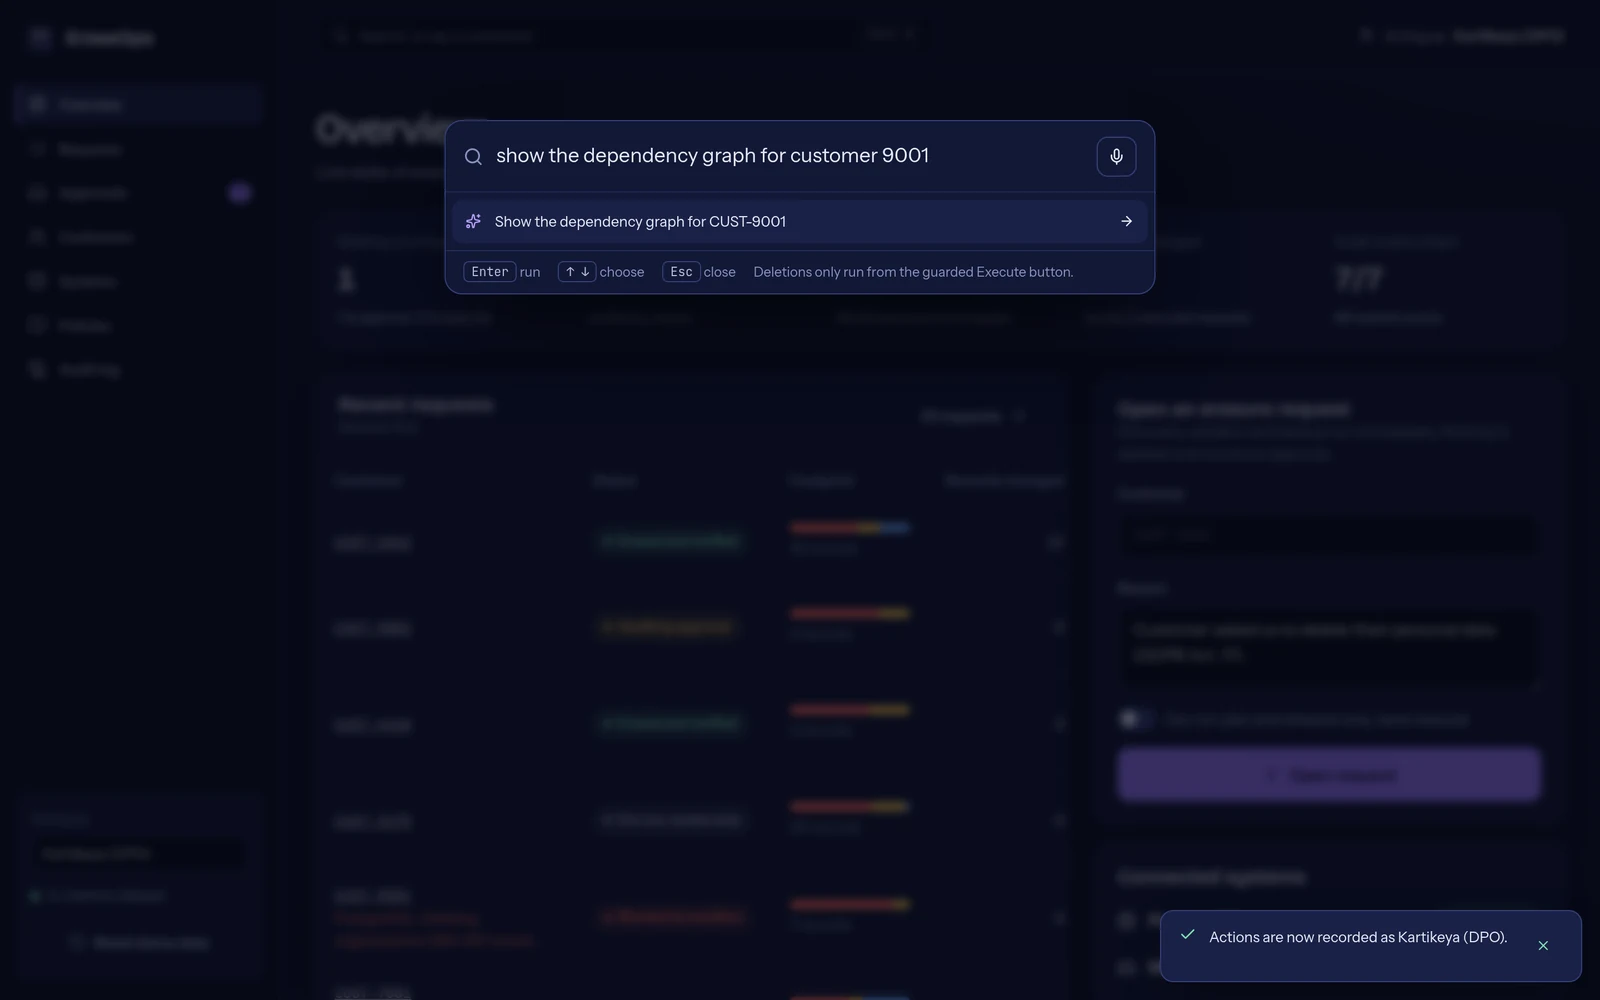
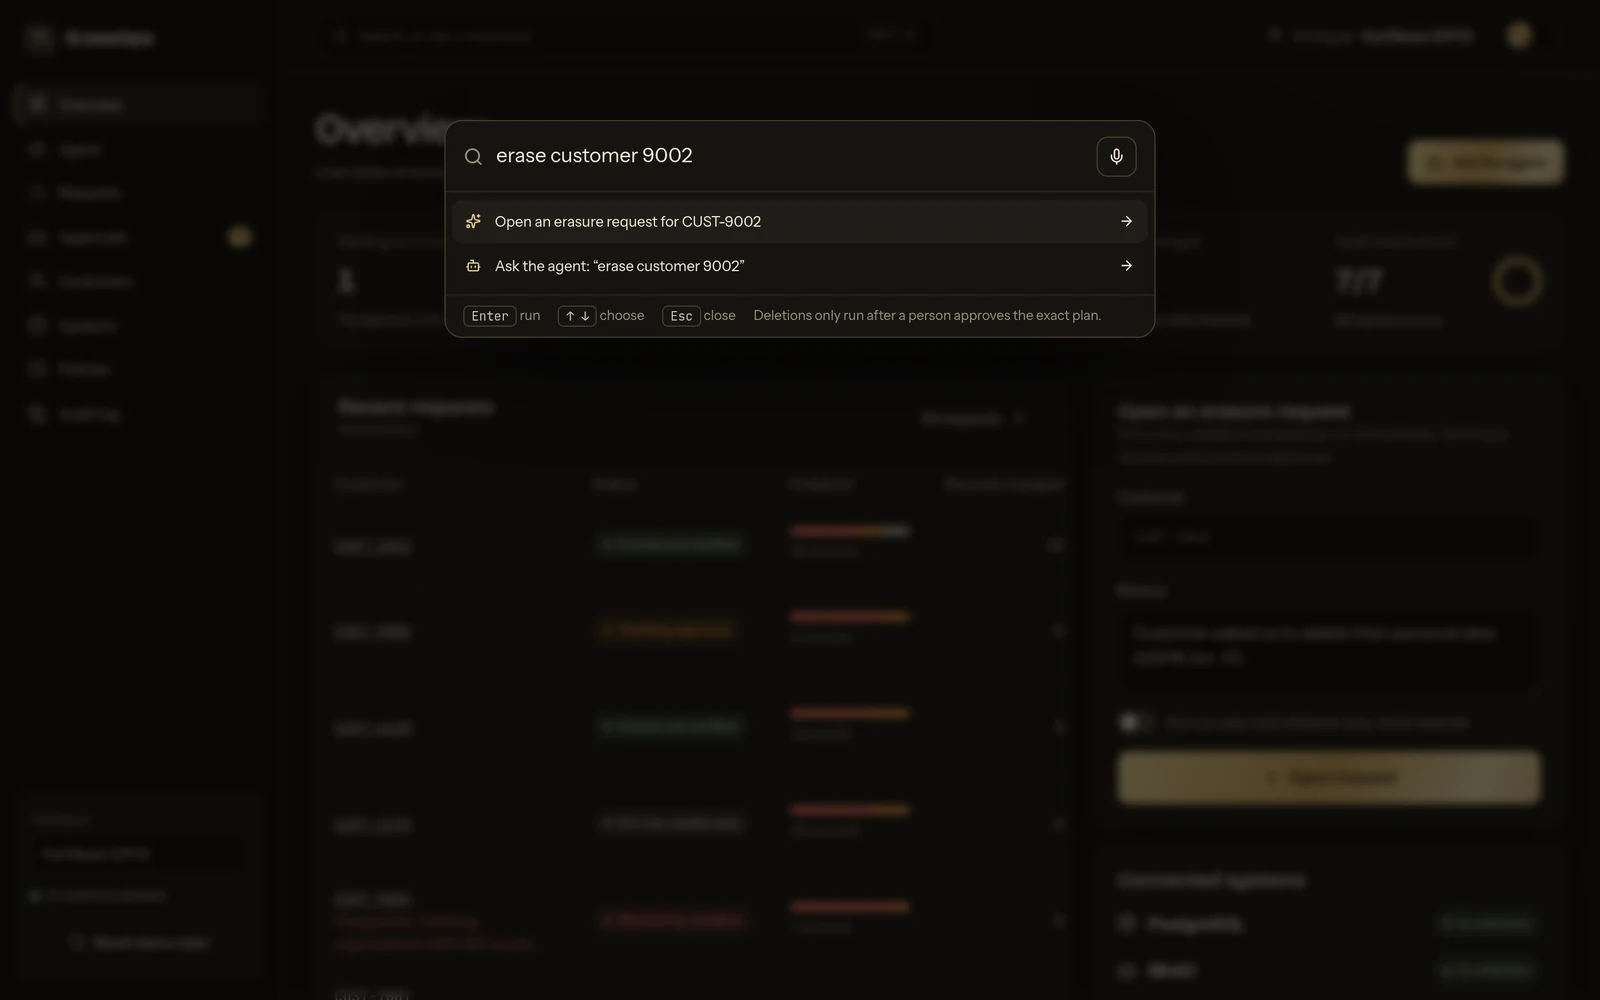
Refresh README visuals for the onyx and gold design and fix the phone topbar
Recapture every screenshot and the 3D showcases in the new palette, add
cream-theme shots and a section on the two themes, redraw the hero and
architecture diagrams in gold, and keep the command bar and name button on
one line on phones.

diff --git a/apps/web/src/console/ConsoleLayout.tsx b/apps/web/src/console/ConsoleLayout.tsx
@@ -65,10 +65,10 @@ export default function ConsoleLayout() {
     </aside>
     <div className="main">
       <header className="topbar">
-        <button type="button" className="command-trigger" onClick={() => setPaletteOpen(true)}><Search size={15} />{speechSupported ? 'Search, or say a command' : 'Search or run a command'}<kbd>Ctrl K</kbd></button>
+        <button type="button" className="command-trigger" onClick={() => setPaletteOpen(true)}><Search size={15} /><span className="trigger-label">{speechSupported ? 'Search, or say a command' : 'Search or run a command'}</span><kbd>Ctrl K</kbd></button>
         <div className="who">
           <button type="button" className={`who-button ${name ? '' : 'missing'}`} aria-expanded={identityOpen} onClick={() => setIdentityOpen(open => !open)}>
-            {name ? <><UserRound size={15} /><span>Acting as</span> <b>{name}</b></> : <><UserRound size={15} />Set your name to approve</>}
+            {name ? <><UserRound size={15} /><span>Acting as</span> <b>{name}</b></> : <><UserRound size={15} /><span className="who-long">Set your name to approve</span><span className="who-short">Your name</span></>}
           </button>
           {identityOpen && <div className="who-popover panel" role="dialog" aria-label="Who is acting"><OperatorField label="Acting as" autoFocus /><button type="button" className="btn btn-ghost" onClick={() => setIdentityOpen(false)}>Done</button></div>}
         </div>

diff --git a/apps/web/src/styles/console.css b/apps/web/src/styles/console.css
@@ -235,3 +235,12 @@ a.kpi:hover { background: var(--surface-3); }
 .who-button b { color: var(--text); }
 .who-button.missing { color: var(--redact); background: var(--redact-soft); border-color: color-mix(in srgb, var(--redact) 35%, transparent); font-weight: 600; }
 .who-popover { position: absolute; right: 0; top: calc(100% + 8px); z-index: 30; width: min(340px, calc(100vw - 32px)); padding: 1rem; display: grid; gap: 0.6rem; animation: pop-in 0.22s var(--ease-spring) both; }
+.trigger-label { white-space: nowrap; overflow: hidden; text-overflow: ellipsis; min-width: 0; }
+.command-trigger { min-width: 0; }
+.who-button { white-space: nowrap; }
+.who-short { display: none; }
+@media (max-width: 900px) {
+  .who-button.missing .who-long { display: none; }
+  .who-button.missing .who-short { display: inline; }
+  .topbar { gap: 0.5rem; }
+}

diff --git a/README.md b/README.md
@@ -1,5 +1,5 @@
 <p align="center">
-  <img src="docs/assets/hero.svg" width="100%" alt="EraseOps: an isometric field of customer records. A violet scan plane sweeps across it; deleted records dissolve, redacted ones get a black bar, retained ones stay, and a holographic seal reads Verified erased.">
+  <img src="docs/assets/hero.svg" width="100%" alt="EraseOps: an isometric field of customer records. A gold scan plane sweeps across it; deleted records dissolve, redacted ones get a black bar, retained ones stay, and a gold-foil seal reads Verified erased.">
 </p>
 
 <p align="center">
@@ -32,7 +32,7 @@ Ask in plain words, or out loud: <i>"can you wipe Mira's data?"</i>. A LangGraph
 <br>
 
 <p align="center">
-  <img src="docs/assets/showcase-3d.webp" width="100%" alt="Three console screens layered in 3D: the overview dashboard, a deletion plan awaiting approval, and a certificate of erasure for CUST-1042.">
+  <img src="docs/assets/showcase-3d.webp" width="100%" alt="Three console screens layered in 3D: the overview and a deletion plan in the onyx theme, and a certificate of erasure for CUST-1042 in the cream theme.">
 </p>
 
 ---
@@ -140,7 +140,7 @@ The demo ships a synthetic dataset, [`infra/fixtures/demo-dataset.json`](infra/f
 <table>
   <tr>
     <td width="50%"><img src="docs/assets/screens/plan.webp" alt="Request workspace for CUST-1042 showing the deletion plan, color-coded by action, and the safety rail with type-to-confirm approval."><br><b>Plan and safety rail.</b> Each action shows its legal basis. Approval unlocks only when every gate is green and the operator types the customer ID.</td>
-    <td width="50%"><img src="docs/assets/screens/certificate.webp" alt="Certificate of erasure with a guilloche rosette and a holographic Verified erased seal."><br><b>Certificate of erasure.</b> Approver, plan hash, execution time, residual count, and audit-chain status. Prints cleanly to PDF.</td>
+    <td width="50%"><img src="docs/assets/screens/certificate.webp" alt="Certificate of erasure with a guilloche rosette and a gold-foil Verified erased seal."><br><b>Certificate of erasure.</b> Approver, plan hash, execution time, residual count, and audit-chain status. Prints cleanly to PDF.</td>
   </tr>
   <tr>
     <td><img src="docs/assets/screens/graph-9001.webp" alt="Dependency graph for CUST-9001 showing the owned workspace referenced by two other customers' membership rows."><br><b>Dependency graph.</b> CUST-9001's workspace is referenced by two other customers, so the sandbox blocks the plan before any backup or approval.</td>
@@ -155,15 +155,30 @@ The demo ships a synthetic dataset, [`infra/fixtures/demo-dataset.json`](infra/f
     <td><img src="docs/assets/screens/systems.webp" alt="Systems page showing live row counts per PostgreSQL table and object counts per MinIO bucket."><br><b>Systems.</b> Live inventory per table and bucket. Watch the counts drop after an erasure and the backup bucket grow.</td>
   </tr>
   <tr>
-    <td><img src="docs/assets/screens/customers.webp" alt="Customers page with masked names, footprint bars and residual personal-data counts."><br><b>Customers.</b> Masked identities, footprint by policy, and a residual count from a live rescan.</td>
+    <td><img src="docs/assets/screens/customers.webp" alt="Customers page with masked names, warm initial avatars, footprint bars and residual personal-data counts."><br><b>Customers.</b> Masked identities, footprint by policy, and a residual count from a live rescan. An erased customer's avatar turns into a redaction swatch.</td>
     <td><img src="docs/assets/screens/policies.webp" alt="Policies page with active limits, the five safety gates and the retention rules."><br><b>Policies.</b> Retention rules and the limits the running API enforces, read from its configuration.</td>
   </tr>
 </table>
 
 <p align="center">
-  <img src="docs/assets/mobile-3d.webp" width="88%" alt="Two phones in 3D perspective: the landing page with the live record sphere, and a certificate of erasure.">
+  <img src="docs/assets/mobile-3d.webp" width="88%" alt="Two phones in 3D perspective: the onyx landing page with the live record sphere, and a cream certificate of erasure.">
   <br><sub>Responsive down to phone width. The landing page's 3D record sphere is drawn from live record counts.</sub>
 </p>
+
+## Two papers: Onyx and Vellum
+
+The console is designed like security printing: gold foil for proof, black ink for redaction, guilloche linework on the certificate. **Onyx** (dark, default) and **Vellum** (cream and gold) are one click apart: the toggle in the top bar repaints the page with a circular reveal, and the choice is remembered. Status colours carry meaning only (vermilion deletes, copper redacts, stone retains, sage verifies), and both themes pass an automated WCAG AA audit.
+
+<table>
+  <tr>
+    <td width="50%"><img src="docs/assets/screens/landing.webp" alt="Landing page in the onyx theme: headline, gold-foil buttons, live stats and the record sphere in front of a guilloche rosette."><br><b>Onyx.</b> The landing page reveals its headline from under redaction bars; every number and every point on the sphere is live.</td>
+    <td width="50%"><img src="docs/assets/screens/landing-light.webp" alt="The same landing page in the cream Vellum theme with burnished gold accents."><br><b>Vellum.</b> The same page on cream paper with burnished gold.</td>
+  </tr>
+  <tr>
+    <td><img src="docs/assets/screens/overview.webp" alt="Console overview in onyx: KPIs with progress rings, recent requests and the request form."><br><b>Overview, onyx.</b> Counts animate in, rings show erasure and audit-chain health.</td>
+    <td><img src="docs/assets/screens/overview-light.webp" alt="Console overview in cream."><br><b>Overview, vellum.</b></td>
+  </tr>
+</table>
 
 ## Quick start
 
